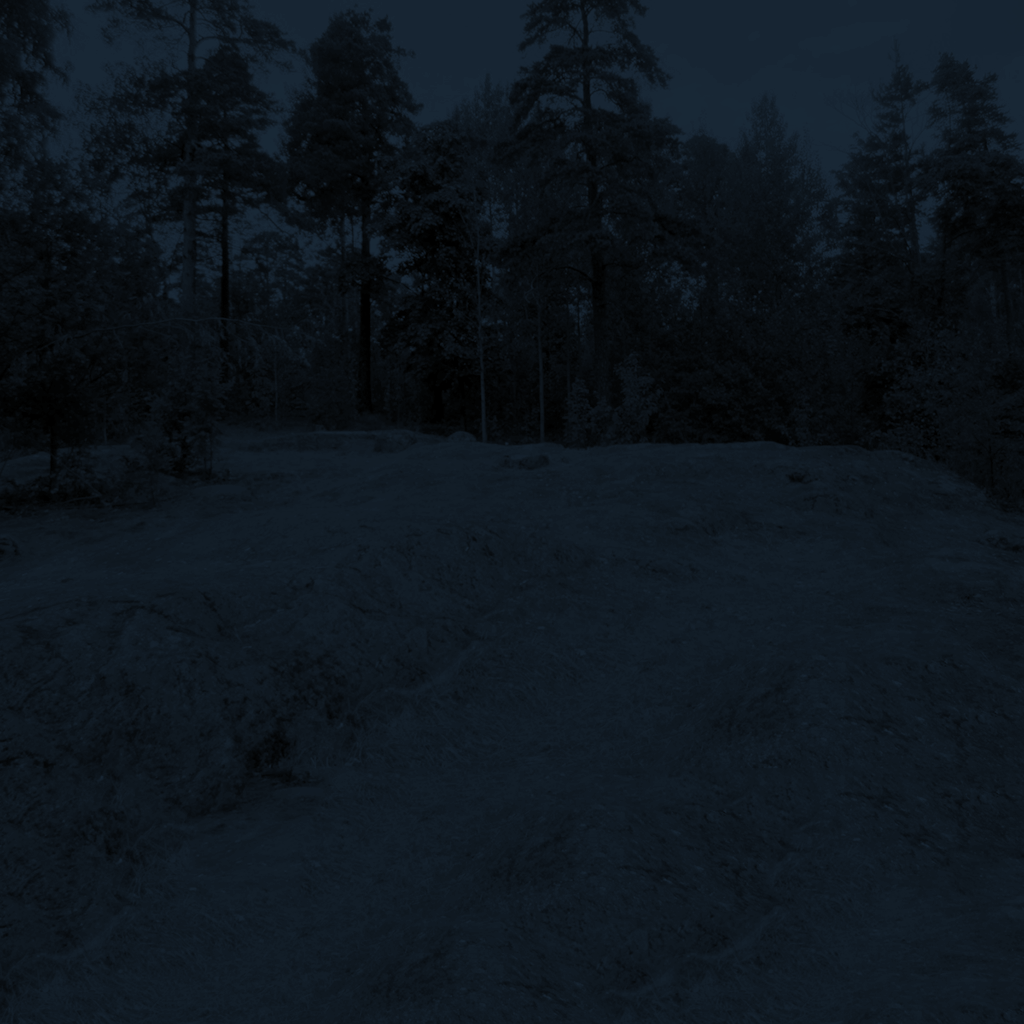
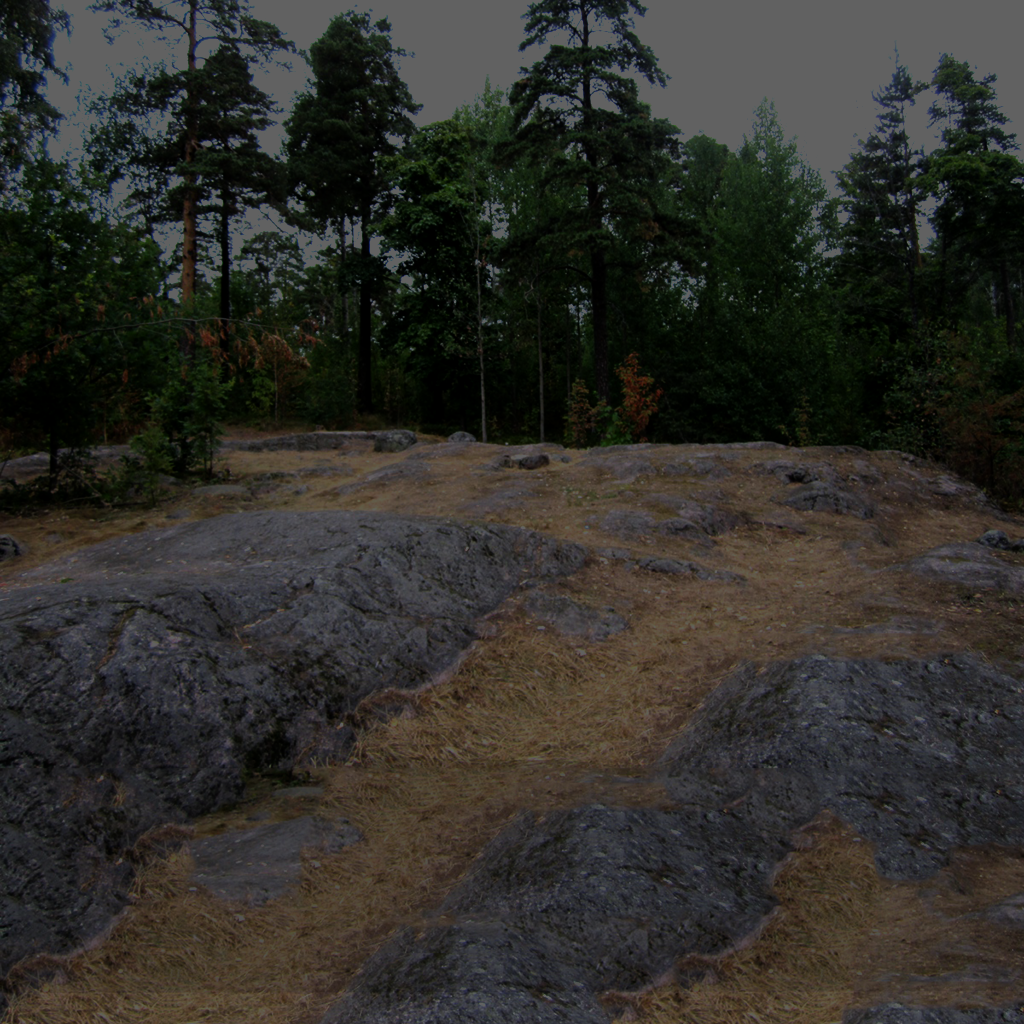
More goodies...

diff --git a/demo/Boozembly_invitation_2016/parts/part-01-makkara.js b/demo/Boozembly_invitation_2016/parts/part-01-makkara.js
@@ -64,6 +64,7 @@
 				transparent: false
 			});
 			
+			
 			var geom = new THREE.BufferGeometry().fromGeometry(object_makkara2.children[1].geometry);
 			var mesh = new THREE.Mesh(geom, material);
 			mesh.position.set(0, 0, 0);
@@ -418,6 +419,19 @@
 			obj.passes['gridbokeh'] = pass;
 			obj.composers['grid'] = composer;
 			obj.rendertargets['grid'] = rendertarget;
+
+			var background = THREE.ImageUtils.loadTexture( image_bzmArea.src );
+	//		background.flipY = false;
+			
+			var bgMaterial = new THREE.MeshBasicMaterial({
+				map: background,
+				color: 0xFFFFFF
+			});
+			
+			var bgGeom = new THREE.BoxBufferGeometry(6000,6000,1, 1, 1);
+			var bgMesh = new THREE.Mesh(bgGeom, bgMaterial);
+			bgMesh.position.set(0, 0, -3000);
+			scene.add(bgMesh);
 			
 			return scene;
 			
